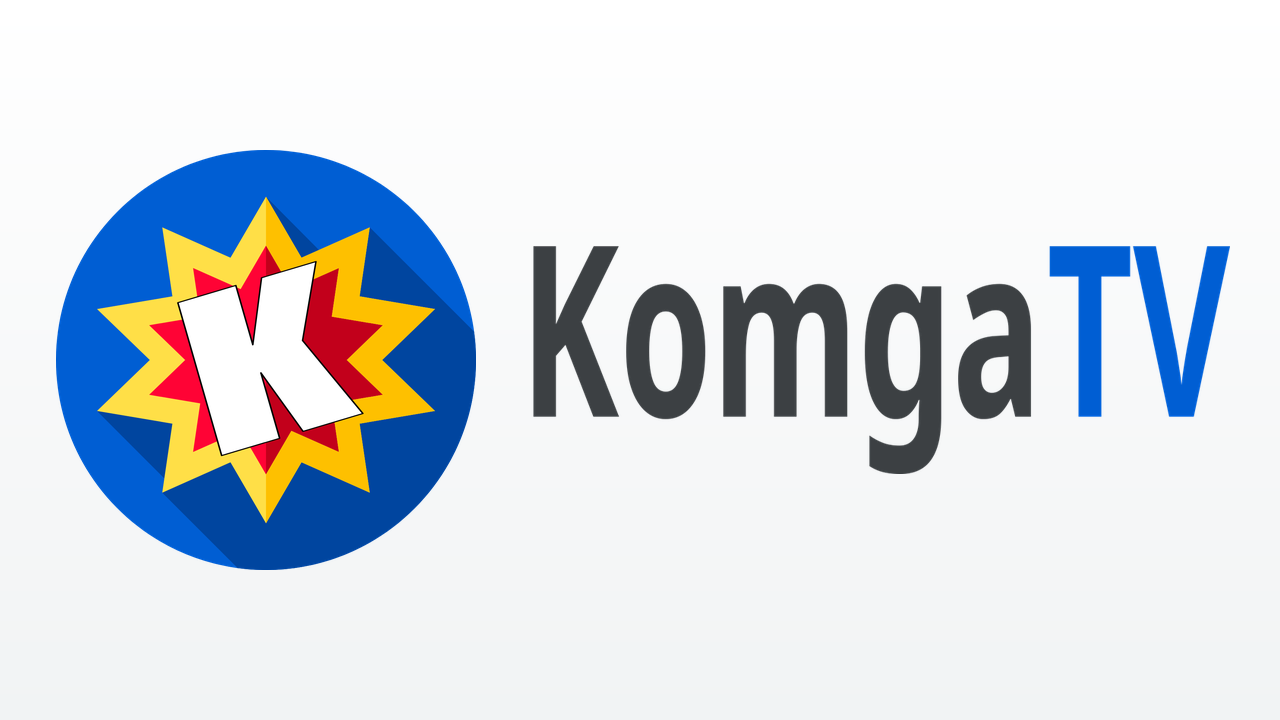
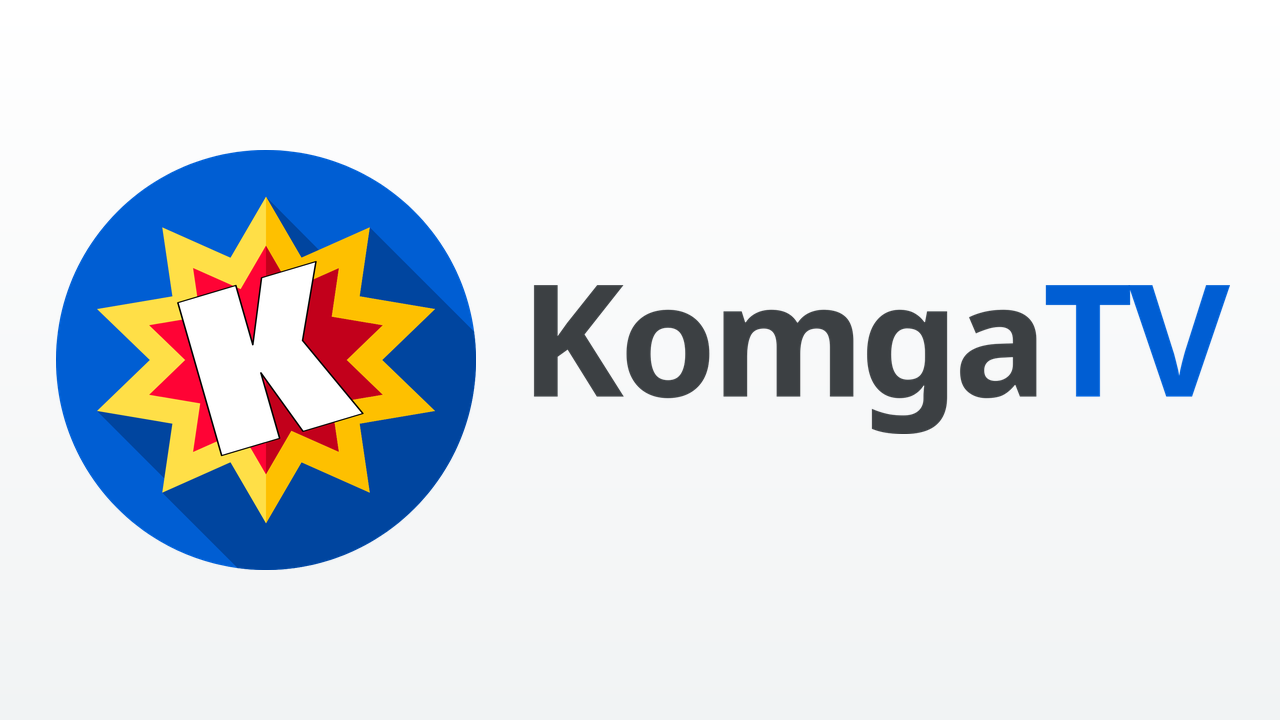
fix: 배너 글자를 원래 비율로, 자간 조금 좁게 (0.2.7 / b9)

Changed region(s): [[0.4062, 0.3361, 0.9688, 0.6722], [0.8438, 0.55, 0.875, 0.5806]]

diff --git a/docs/branding/make_banner.py b/docs/branding/make_banner.py
@@ -1,4 +1,4 @@
-"""TV 배너·앱 아이콘 만들기 — Google Play 배너처럼 밝은 바탕에 왼쪽 Komga 로고, 오른쪽 세로로 조금 긴 'KomgaTV'.
+"""TV 배너·앱 아이콘 만들기 — Google Play 배너처럼 밝은 바탕에 왼쪽 Komga 로고, 오른쪽 'KomgaTV' (글자 비율 그대로).
 
 입력: Komga 로고(MIT, github.com/gotson/komga komga-webui/src/assets/logo.svg)를 1024px PNG로 그린 것,
       Noto Sans Bold(OFL).
@@ -17,7 +17,9 @@ W, H = 1280, 720
 BG_TOP, BG_BOTTOM = (255, 255, 255), (241, 243, 244)
 INK = (60, 64, 67)  # 'Komga' — Google 글자 회색
 BLUE = (0, 94, 211)  # 'TV' — Komga 로고의 파랑
-STRETCH_Y = 1.6  # 글자를 위아래로 늘려 길쭉하게
+STRETCH_Y = 1.0  # 글자 비율 그대로 (세로로 늘리면 보기 싫다 — 사용자 의견)
+FONT_SIZE = 400
+TRACKING = -12  # 자간 (글자 크기 400 기준, 음수면 좁힌다 — 사용자 의견)
 
 DENSITIES = {"mdpi": 1.0, "hdpi": 1.5, "xhdpi": 2.0, "xxhdpi": 3.0, "xxxhdpi": 4.0}
 
@@ -35,19 +37,21 @@ def gradient() -> Image.Image:
 
 
 def wordmark(font_path: str, height: int) -> Image.Image:
-    """'Komga'(회색) + 'TV'(파랑)을 그린 뒤 세로로 늘린다"""
-    font = ImageFont.truetype(font_path, 400)
-    parts = [("Komga", INK), ("TV", BLUE)]
-    widths = [font.getbbox(text)[2] - font.getbbox(text)[0] for text, _ in parts]
-    top = min(font.getbbox(text)[1] for text, _ in parts)
-    bottom = max(font.getbbox(text)[3] for text, _ in parts)
-    gap = 14
-    canvas = Image.new("RGBA", (sum(widths) + gap, bottom - top), (0, 0, 0, 0))
+    """'Komga'(회색) + 'TV'(파랑)을 그린다 (STRETCH_Y가 1이 아니면 세로로 늘린다)"""
+    font = ImageFont.truetype(font_path, FONT_SIZE)
+    # 한 글자씩 그리며 자간을 [TRACKING]만큼 좁힌다
+    letters = [(ch, INK) for ch in "Komga"] + [(ch, BLUE) for ch in "TV"]
+    top = min(font.getbbox(ch)[1] for ch, _ in letters)
+    bottom = max(font.getbbox(ch)[3] for ch, _ in letters)
+    left = font.getbbox(letters[0][0])[0]
+    advances = [font.getlength(ch) + TRACKING for ch, _ in letters]
+    width = round(sum(advances[:-1]) + font.getbbox(letters[-1][0])[2] - left)
+    canvas = Image.new("RGBA", (width, bottom - top), (0, 0, 0, 0))
     draw = ImageDraw.Draw(canvas)
-    x = 0
-    for (text, color), w in zip(parts, widths):
-        draw.text((x - font.getbbox(text)[0], -top), text, font=font, fill=color)
-        x += w + gap
+    x = -left
+    for (ch, color), advance in zip(letters, advances):
+        draw.text((x, -top), ch, font=font, fill=color)
+        x += advance
     stretched = canvas.resize((canvas.width, round(canvas.height * STRETCH_Y)), Image.LANCZOS)
     scale = height / stretched.height
     return stretched.resize((round(stretched.width * scale), height), Image.LANCZOS)

diff --git a/docs/reports/zoom.md b/docs/reports/zoom.md
@@ -11,7 +11,7 @@
 - 작품 설정에만 저장(`zoomPercent`), "앱 기본값으로 되돌리기"면 100%.
 
 ## 배너·아이콘 (Google Play 스타일)
-- 배너: 흰 바탕(아래로 아주 옅은 회색), 왼쪽 Komga 로고, 오른쪽 세로로 늘린 'Komga'(회색) + 'TV'(Komga 파랑).
+- 배너: 흰 바탕(아래로 아주 옅은 회색), 왼쪽 Komga 로고, 오른쪽 'Komga'(회색) + 'TV'(Komga 파랑) — 글자는 원래 비율, 자간은 조금 좁게(처음엔 세로로 늘렸다가 사용자 의견으로 되돌림).
 - 앱 아이콘: 흰 바탕 가운데 Komga 로고, 테마 아이콘은 별과 K 실루엣. `docs/branding/make_banner.py`로 모든 밀도 생성.
 - TV 런처는 배너를 기억한다 — 새 APK 설치 후 TV를 다시 켜야(재부팅) 새 그림이 보인다. 에뮬레이터는 런처를 다시 시작해 확인.
 
